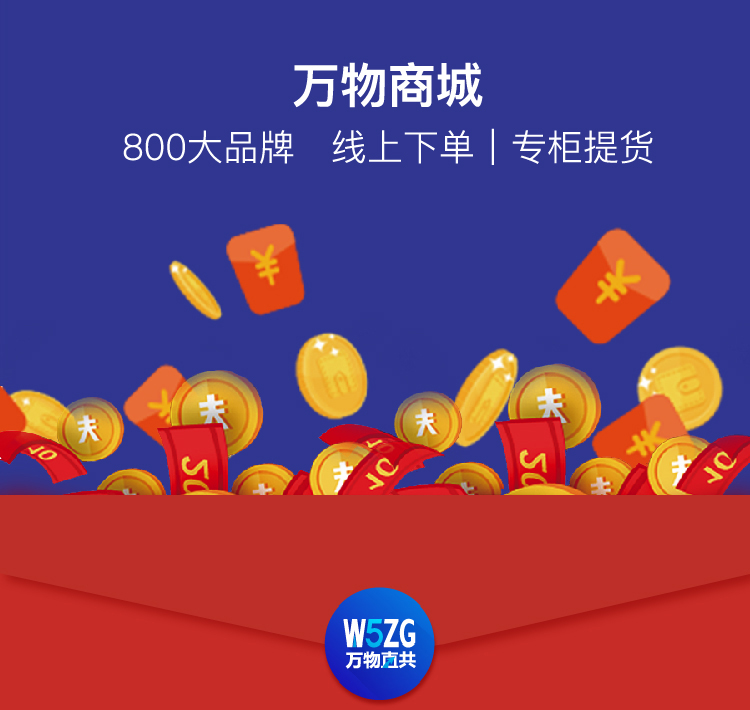
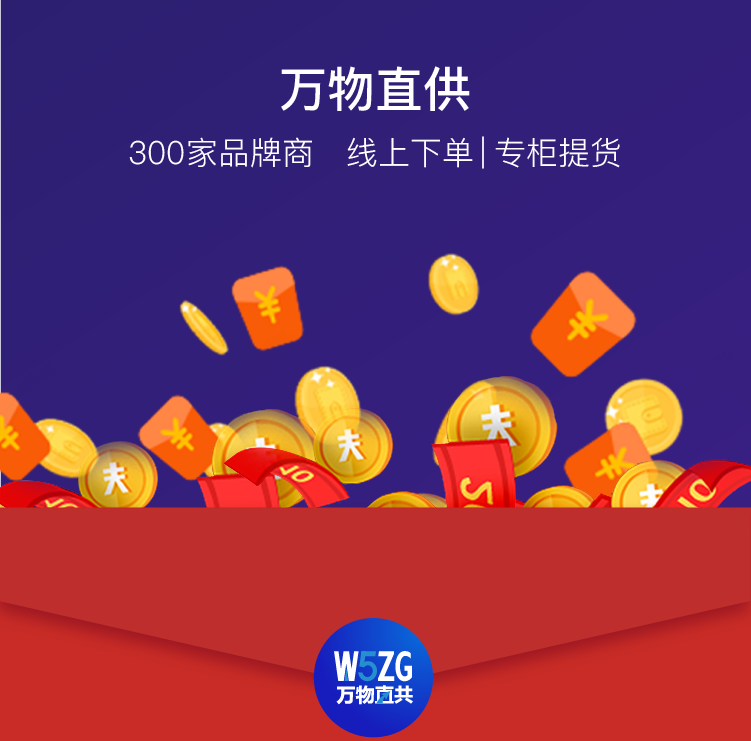
update 领券页面更改

diff --git a/src/views/my/src/myAccount/src/receiveTicket.vue b/src/views/my/src/myAccount/src/receiveTicket.vue
@@ -3,7 +3,7 @@
     nav-bar(background="white")
       .topLeft(slot="left", @click="$router.replace('/home')")
         img(src="../../../../../assets/img/back@2x.png", style="width:.3rem")
-      .topCenter(slot="center") 万物商城现金券
+      .topCenter(slot="center", style="width: 5rem;text-align:center;") 万物直供商城现金券
       .topRight(slot="right")
     .content(v-loading="loadingFlag")
       <!--img.bg(:src="showSuccess?require('../../../../../assets/img/3-01.jpg'):require('../../../../../assets/img/1-01.jpg')")-->
@@ -12,14 +12,19 @@
         .formBottom
           input(placeholder="请输入手机号领取", v-if="!isLoginFlag", v-model="phone", type="number")
           .btn(@click="receive") 点击领取
-          .text 万物商城送你现金券，购物更省钱！
+          .text 万物直供商城送您现金券，购物更省钱！
       .successWrapper(v-if="showSuccess")
         .topWrapper
-          .price {{price}}
-            span 元
+          .success(v-if="getSuccess")
+            .price {{price}}
+              span 元
+            .successDec 恭喜您获得“万物直供”商城
+          .againDec(v-if="!getSuccess")
+            .line1 已经领过券了哦~
+            .line2 您可以推荐亲友领券！
         .bottomWrapper
           img.ewm(src="../../../../../assets/img/gzh.jpg")
-          .dec 长按关注“万物直供商城”公众号
+          .dec 长按关注“万物直供”商城公众号
           .downloadWrapper
             a.btn(href="http://a.app.qq.com/o/simple.jsp?pkgname=com.w5kj.w5mall&fromcase=40002")
             a.btn(href="https://itunes.apple.com/cn/app/%E4%B8%87%E7%89%A9%E7%9B%B4%E4%BE%9B/id1391512233?mt=8")
@@ -36,7 +41,8 @@
         showSuccess:false,
         url: '',
         price: 0,
-        loadingFlag: false
+        loadingFlag: false,
+        getSuccess: false
       }
     },
     created () {
@@ -101,11 +107,12 @@
             }
           }).then(function (response) {
             _this.loadingFlag = false
-            if (response.data.code === '081') {
-              _this.price = response.data.data
+            if (response) {
               _this.showSuccess = true;
-            } else {
-              _this.$message.error(response.data.msg)
+              if (response.data.msg != '您已经超过领取上限') {
+                _this.price = response.data.data
+                _this.getSuccess = true;
+              }
             }
           })
         }
@@ -210,7 +217,7 @@
     width: 100%;
     height: 50%;
     position: relative;
-    background: url("../../../../../assets/img/issue2@3x.jpg") no-repeat top left;
+    background: url("../../../../../assets/img/issue2@3x.png") no-repeat top left;
     background-size: 100% 100%;
 
   }
@@ -275,5 +282,29 @@
     color: #fff;
     font-size: .4rem;
     margin-top: .2rem;
+  }
+  .successDec {
+    width: 100%;
+    position: absolute;
+    text-align: center;
+    bottom: 2.8rem;
+    left: 0;
+    font-size: .53rem;
+    color: #c82c26;
+  }
+  .success {
+    width: 100%;
+    height: 100%;
+    position: relative;
+  }
+  .againDec {
+    width: 100%;
+    position: absolute;
+    text-align: center;
+    bottom: 1.5rem;
+    left: 0;
+    font-size: .53rem;
+    color: #c82c26;
+    line-height: 1.5;
   }
 </style>

diff --git a/src/views/my/src/myAccount/src/receiveTicketGH.vue b/src/views/my/src/myAccount/src/receiveTicketGH.vue
@@ -3,7 +3,7 @@
     nav-bar(background="white")
       .topLeft(slot="left", @click="$router.replace('/home')")
         img(src="../../../../../assets/img/back@2x.png", style="width:.3rem")
-      .topCenter(slot="center") 万物商城现金券
+      .topCenter(slot="center") 万物直供商城现金券
       .topRight(slot="right")
     .content(v-loading="loadingFlag")
       .form(v-if="!showSuccess")
@@ -11,20 +11,20 @@
         .formBottom
           input(placeholder="请输入手机号领取", v-if="!isLoginFlag", v-model="phone", type="number")
           .btn(@click="receive") 点击领取
-          .text 南京工会送你现金券，购物更省钱！
+          .text 南京工会送您现金券，购物更省钱！
       .successWrapper(v-if="showSuccess")
         .topWrapper
           .success(v-if="getSuccess")
             .price {{price}}
               span 元
-            .successDec 恭喜您获得“万物直供”
+            .successDec 恭喜您获得“万物直供”商城
           .againDec(v-if="!getSuccess")
             .line1 领券成功~
             .line2 您可以推荐亲友领券！
         .bottomWrapper
           .goHome(@click="$router.replace('/home')") 进入万物直供首页
-          a.link(href="http://a.app.qq.com/o/simple.jsp?pkgname=com.w5kj.w5mall&fromcase=40002") 下载万物APP（安卓版）
-          a.link(href="https://itunes.apple.com/cn/app/%E4%B8%87%E7%89%A9%E7%9B%B4%E4%BE%9B/id1391512233?mt=8") 下载万物APP（苹果版）
+          a.link(href="http://a.app.qq.com/o/simple.jsp?pkgname=com.w5kj.w5mall&fromcase=40002") 下载万物直供APP（安卓版）
+          a.link(href="https://itunes.apple.com/cn/app/%E4%B8%87%E7%89%A9%E7%9B%B4%E4%BE%9B/id1391512233?mt=8") 下载万物直供APP（苹果版）
           .dec.first 点击下载“万物直供”APP
           .dec 或者进入应用商店搜索“万物直供”下载
 </template>
